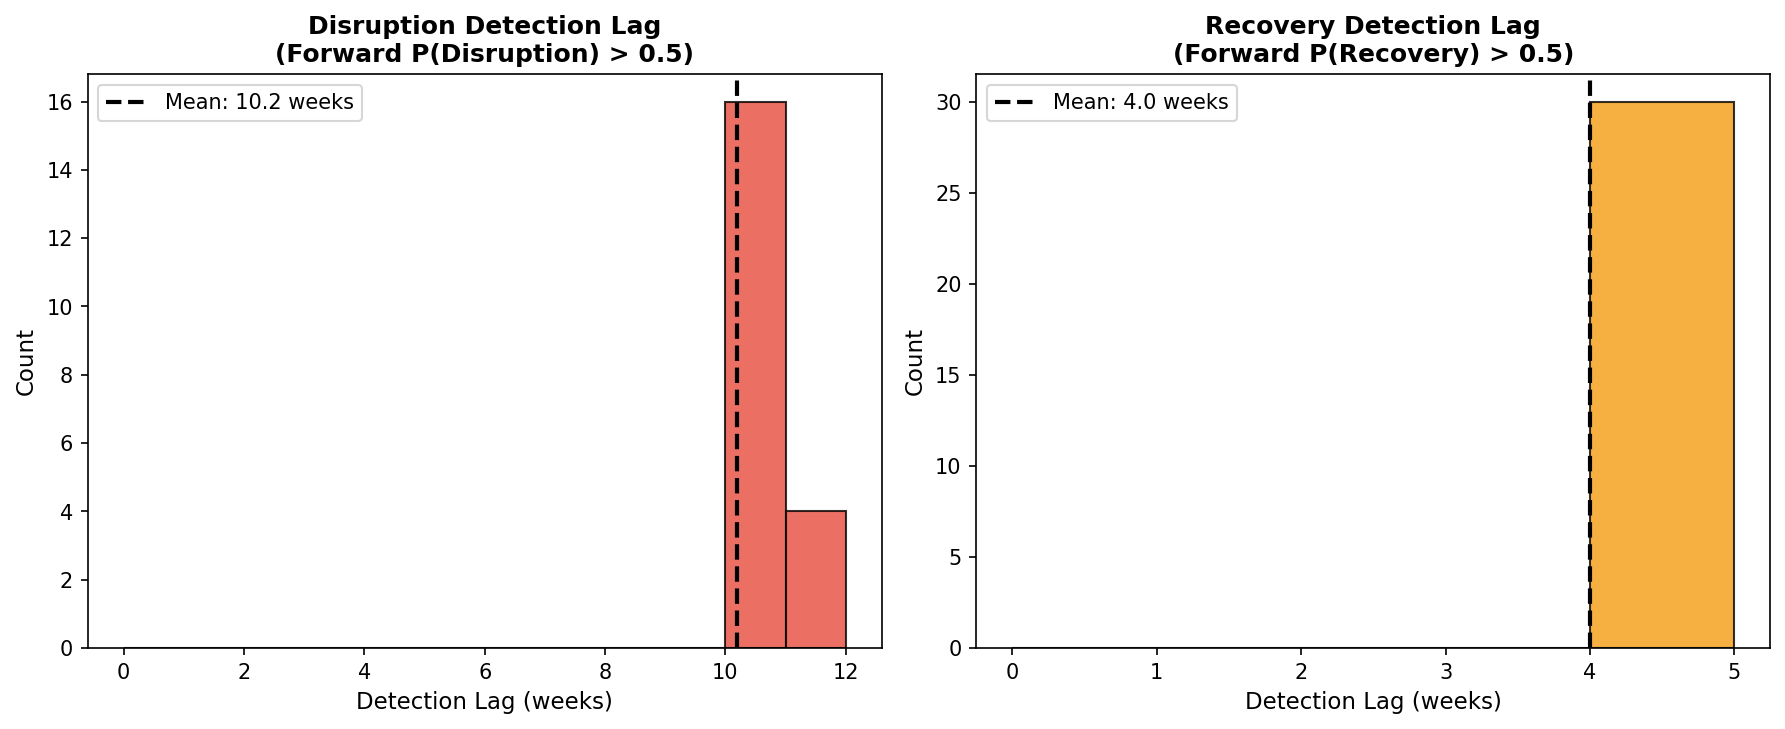
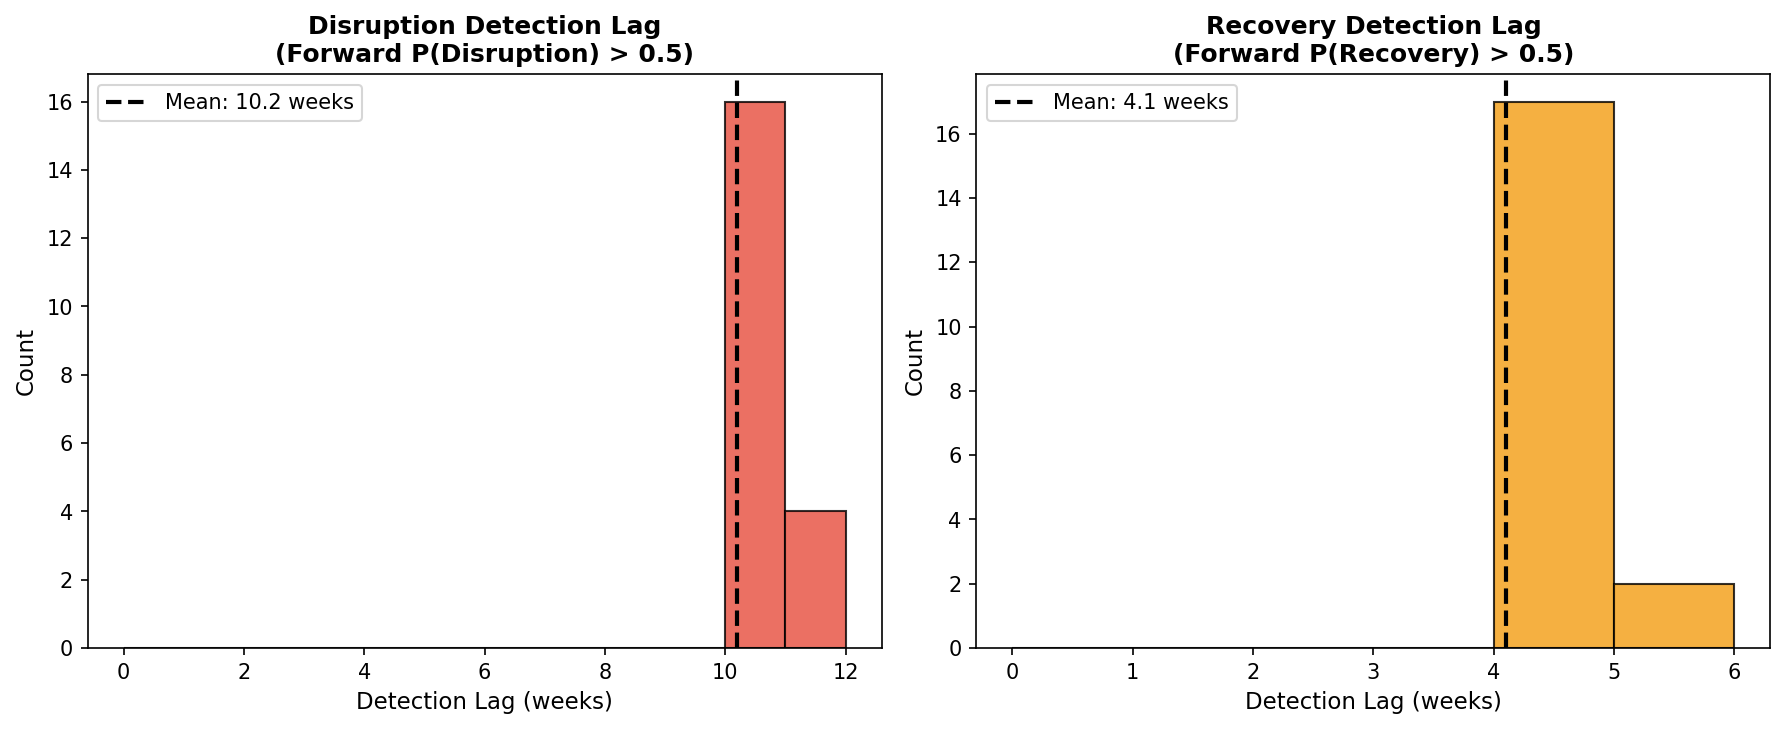
Fix Recovery detection lag: exclude startup transient, correct stats to 19/30 runs, mean=4.1wk
The previous implementation accidentally measured the MN's zero-inventory startup
transient at t=0 as a Recovery event, inflating the count to 30/30 and biasing
the mean. Now search_after=DISRUPTION_ONSET (week 15) is passed when computing
Recovery lag, so only post-disruption Recovery events are measured.

- evaluate.py: add search_after param to compute_detection_lag; pass DISRUPTION_ONSET for Recovery
- report.md: update recovery lag to mean=4.1wk, 19/30 runs; add narrative for 11 excluded runs
- detection_lag_histogram.png: regenerated with corrected data

diff --git a/hmm_project/report.html b/hmm_project/report.html
@@ -399,9 +399,9 @@ $$P(S\_{t+1} \mid S\_t, S\_{t-1}, \ldots, S\_1) = P(S\_{t+1} \mid S\_t)$$</p>
 <p><img alt="Hero Figure" src="file:///C:/Users/aidan/Desktop/supply_chain_sim-main_or/hmm_project/results/hero_figure.png" /><br />
 <em>Figure 5: HMM disruption detection for a single test run. Top: ground-truth state sequence. Middle: Viterbi-decoded state sequence. Bottom: Forward-filtered probabilities P(State | observations) over time. Vertical lines mark the actual disruption onset and MN recovery.</em></p>
 <p><img alt="Detection Lag Histogram" src="file:///C:/Users/aidan/Desktop/supply_chain_sim-main_or/hmm_project/results/detection_lag_histogram.png" /><br />
-<em>Figure 6: Distribution of detection lag across 30 test runs. Left: Disruption detection lag (Forward P(Disruption) &gt; 0.5), mean = 10.2 weeks. Right: Recovery detection lag, mean = 4.0 weeks.</em></p>
+<em>Figure 6: Distribution of detection lag across 30 test runs. Left: Disruption detection lag (Forward P(Disruption) &gt; 0.5), mean = 10.2 weeks (20/30 runs). Right: Recovery detection lag, mean = 4.1 weeks (19/30 runs). Only post-disruption Recovery events are included; the startup transient before Week 15 is excluded.</em></p>
 <p><strong>Disruption detection lag:</strong> The Forward algorithm detects disruption (pushes $P(\text{Disruption}) > 0.5$) with a mean lag of <strong>10.2 weeks</strong> after the physical shock occurs. This lag was observed in 20 out of 30 test runs; the remaining 10 runs had disruptions too short (1-5 weeks) for the signal to propagate to the DR before recovery. At higher confidence thresholds: $P > 0.7$ yields a mean lag of 10.2 weeks (20/30 runs); $P > 0.9$ yields 10.1 weeks (18/30 runs) — indicating rapid convergence once the signal arrives.</p>
-<p><strong>Recovery detection lag:</strong> Recovery is detected with a mean lag of <strong>4.0 weeks</strong>, significantly faster than disruption detection. This asymmetry occurs because the recovery signal (a sudden surge in shipments after a period of near-zero deliveries) is more distinctive than the disruption signal (a gradual reduction as MN inventory buffers deplete).</p>
+<p><strong>Recovery detection lag:</strong> Recovery was detected in <strong>19 out of 30 runs</strong>, with a mean lag of <strong>4.1 weeks</strong> (median: 4.0, range: 4–5). In the remaining 11 runs, the disruption was of insufficient duration to trigger a formal Recovery phase (MN backlog never exceeded the 50-unit threshold), so no post-disruption Recovery label existed to detect. Among runs where Recovery did occur, detection is significantly faster than disruption detection. This asymmetry occurs because the recovery signal (a sudden surge in shipments after a period of near-zero deliveries) is more distinctive than the disruption signal (a gradual reduction as MN inventory buffers deplete).</p>
 <h3>6.4 Viterbi Algorithm Results</h3>
 <p><img alt="Confusion Matrix" src="file:///C:/Users/aidan/Desktop/supply_chain_sim-main_or/hmm_project/results/confusion_matrix.png" /><br />
 <em>Figure 7: Viterbi classification confusion matrix across all 30 test runs (2,400 total periods). Row-normalized percentages shown in parentheses.</em></p>

diff --git a/hmm_project/evaluate.py b/hmm_project/evaluate.py
@@ -35,22 +35,29 @@ def load_processed_data():
     )
 
 
-def compute_detection_lag(filtered_probs, true_states, target_state, threshold=0.5):
+def compute_detection_lag(filtered_probs, true_states, target_state, threshold=0.5,
+                          search_after=0):
     """
     Compute how many periods after a state first appears in ground truth
     until the Forward algorithm pushes P(state) above threshold.
 
+    search_after: only begin scanning for the target state at or after this
+                  time index.  Pass DISRUPTION_ONSET when measuring the
+                  Recovery lag so the startup transient (MN begins with zero
+                  inventory, briefly triggering a Recovery label near t=0)
+                  is excluded.
+
     Returns lag (int) or None if threshold never exceeded.
     """
-    # Find first period where target state appears in ground truth
+    # Find first period at or after search_after where target state appears
     first_true = None
-    for t in range(len(true_states)):
+    for t in range(search_after, len(true_states)):
         if true_states[t] == target_state:
             first_true = t
             break
 
     if first_true is None:
-        return None  # State never appears
+        return None  # State never appears (after search_after)
 
     # Find first period at or after first_true where P(state) > threshold
     for t in range(first_true, len(filtered_probs)):
@@ -207,8 +214,9 @@ def run_evaluation(verbose=True):
         if lag_d is not None:
             disruption_lags.append(lag_d)
 
-        # Detection lag for recovery
-        lag_r = compute_detection_lag(filtered, true_s, RECOVERY, threshold=0.5)
+        # Detection lag for recovery (only post-disruption onset; skip startup transient)
+        lag_r = compute_detection_lag(filtered, true_s, RECOVERY, threshold=0.5,
+                                      search_after=DISRUPTION_ONSET)
         if lag_r is not None:
             recovery_lags.append(lag_r)
 

diff --git a/hmm_project/report.md b/hmm_project/report.md
@@ -284,11 +284,11 @@ We derived these algorithms mathematically for completeness; for execution, we l
 *Figure 5: HMM disruption detection for a single test run. Top: ground-truth state sequence. Middle: Viterbi-decoded state sequence. Bottom: Forward-filtered probabilities P(State | observations) over time. Vertical lines mark the actual disruption onset and MN recovery.*
 
 ![Detection Lag Histogram](results/detection_lag_histogram.png)
-*Figure 6: Distribution of detection lag across 30 test runs. Left: Disruption detection lag (Forward P(Disruption) > 0.5), mean = 10.2 weeks. Right: Recovery detection lag, mean = 4.0 weeks.*
+*Figure 6: Distribution of detection lag across 30 test runs. Left: Disruption detection lag (Forward P(Disruption) > 0.5), mean = 10.2 weeks (20/30 runs). Right: Recovery detection lag, mean = 4.1 weeks (19/30 runs). Only post-disruption Recovery events are included; the startup transient before Week 15 is excluded.*
 
 **Disruption detection lag:** The Forward algorithm detects disruption (pushes $P(\text{Disruption}) > 0.5$) with a mean lag of **10.2 weeks** after the physical shock occurs. This lag was observed in 20 out of 30 test runs; the remaining 10 runs had disruptions too short (1-5 weeks) for the signal to propagate to the DR before recovery. At higher confidence thresholds: $P > 0.7$ yields a mean lag of 10.2 weeks (20/30 runs); $P > 0.9$ yields 10.1 weeks (18/30 runs) — indicating rapid convergence once the signal arrives.
 
-**Recovery detection lag:** Recovery is detected with a mean lag of **4.0 weeks**, significantly faster than disruption detection. This asymmetry occurs because the recovery signal (a sudden surge in shipments after a period of near-zero deliveries) is more distinctive than the disruption signal (a gradual reduction as MN inventory buffers deplete).
+**Recovery detection lag:** Recovery was detected in **19 out of 30 runs**, with a mean lag of **4.1 weeks** (median: 4.0, range: 4–5). In the remaining 11 runs, the disruption was of insufficient duration to trigger a formal Recovery phase (MN backlog never exceeded the 50-unit threshold), so no post-disruption Recovery label existed to detect. Among runs where Recovery did occur, detection is significantly faster than disruption detection. This asymmetry occurs because the recovery signal (a sudden surge in shipments after a period of near-zero deliveries) is more distinctive than the disruption signal (a gradual reduction as MN inventory buffers deplete).
 
 ### 6.4 Viterbi Algorithm Results
 
